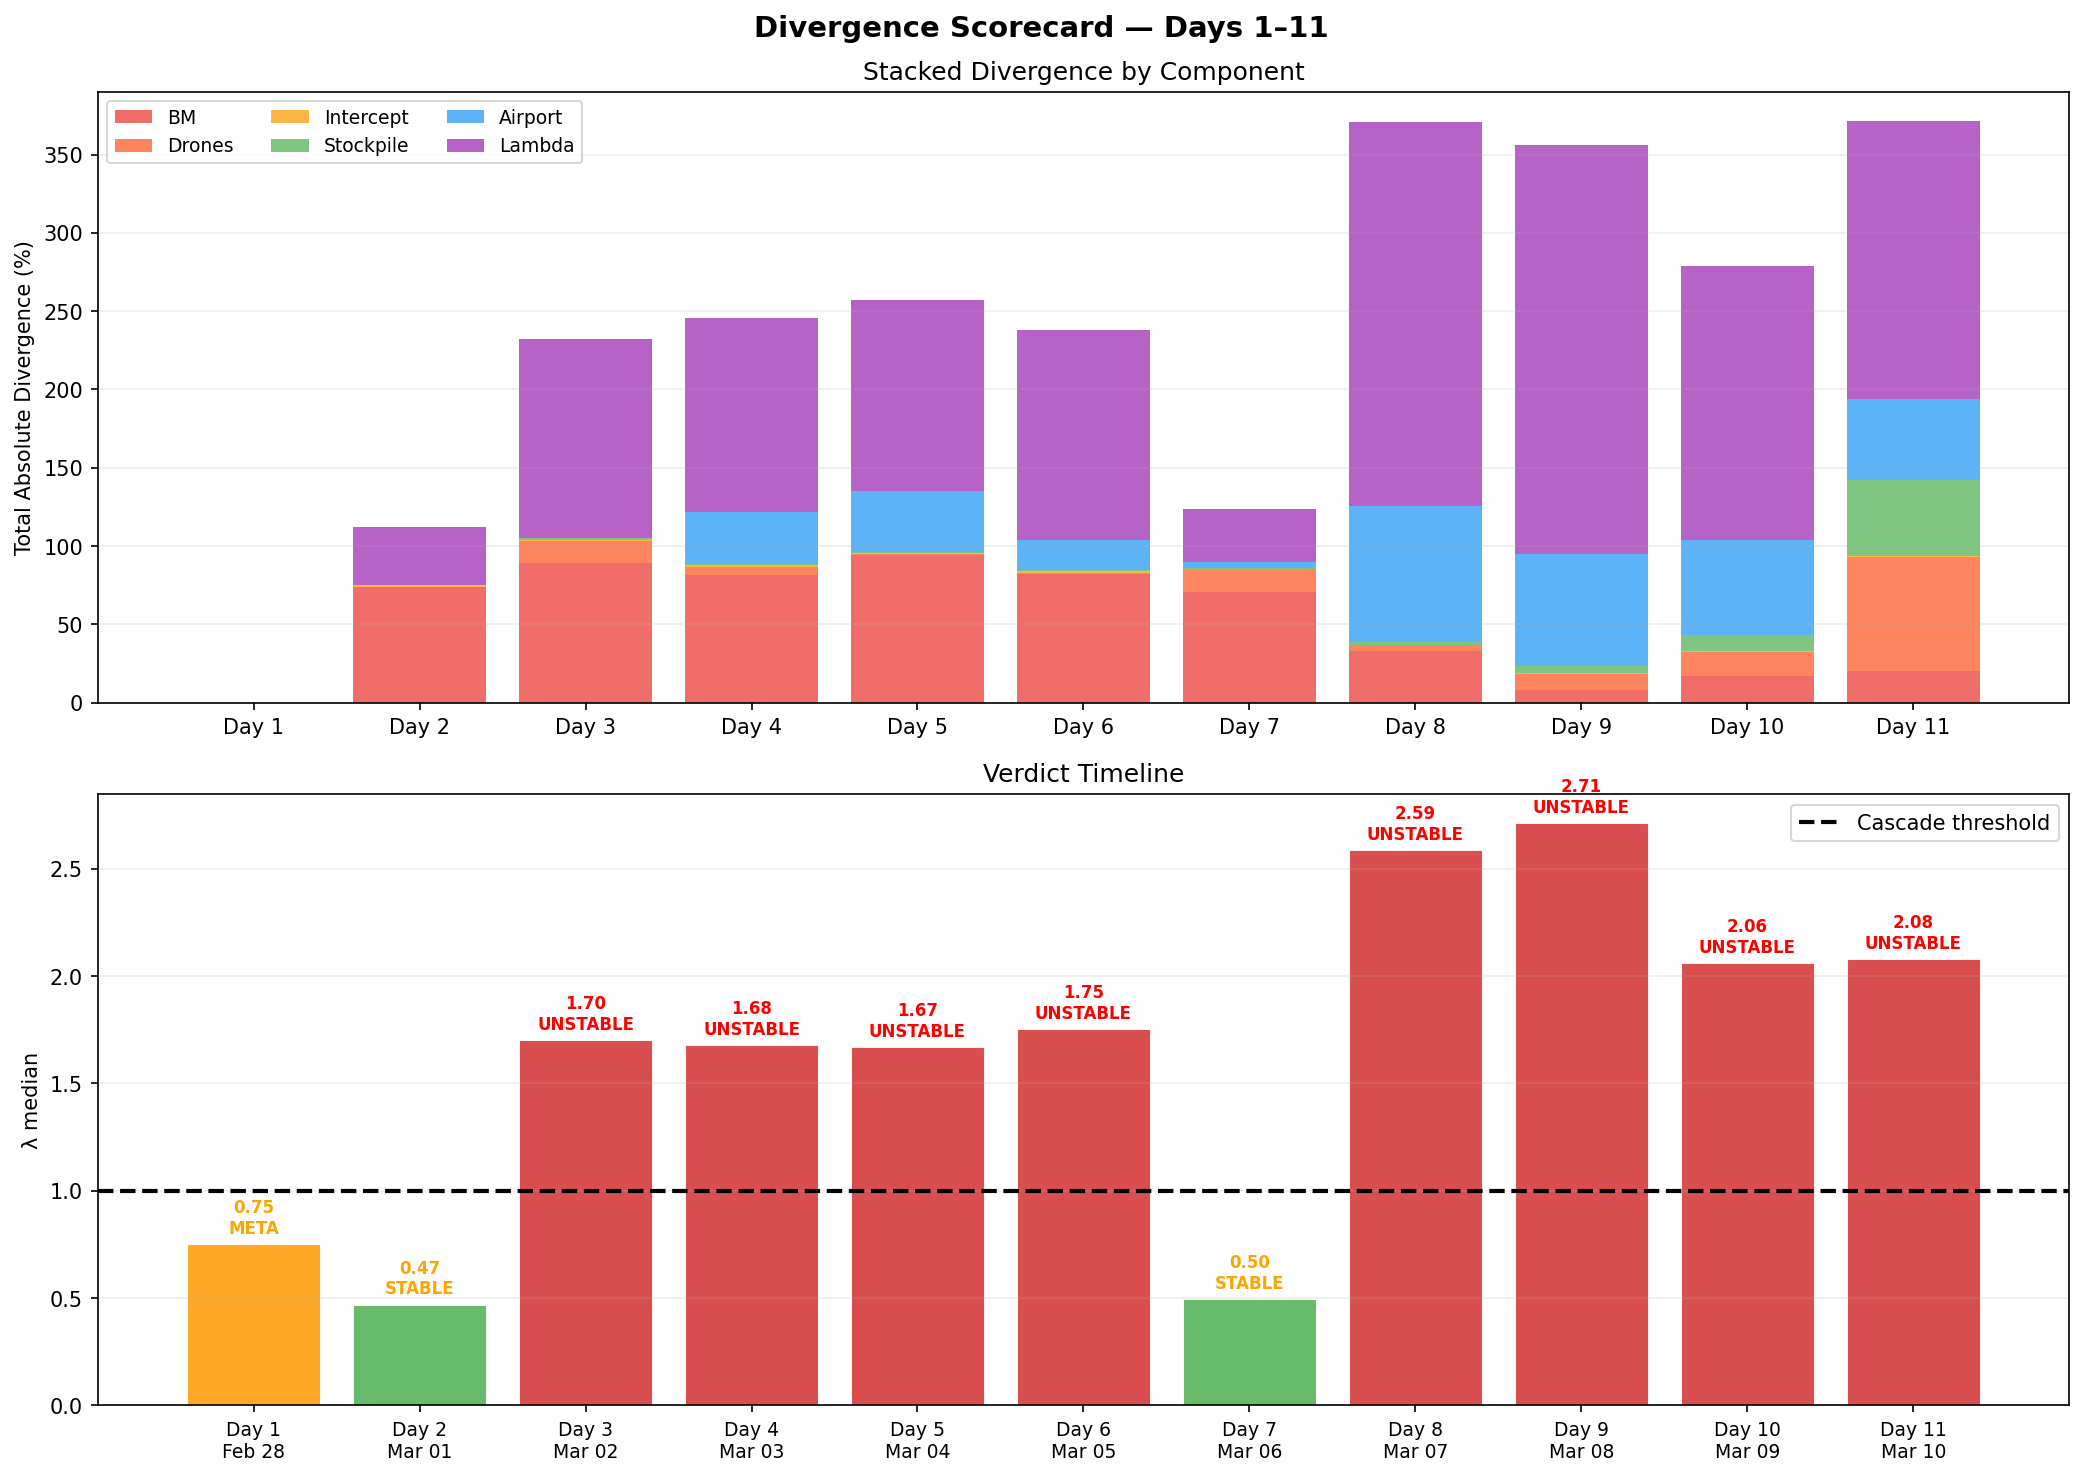
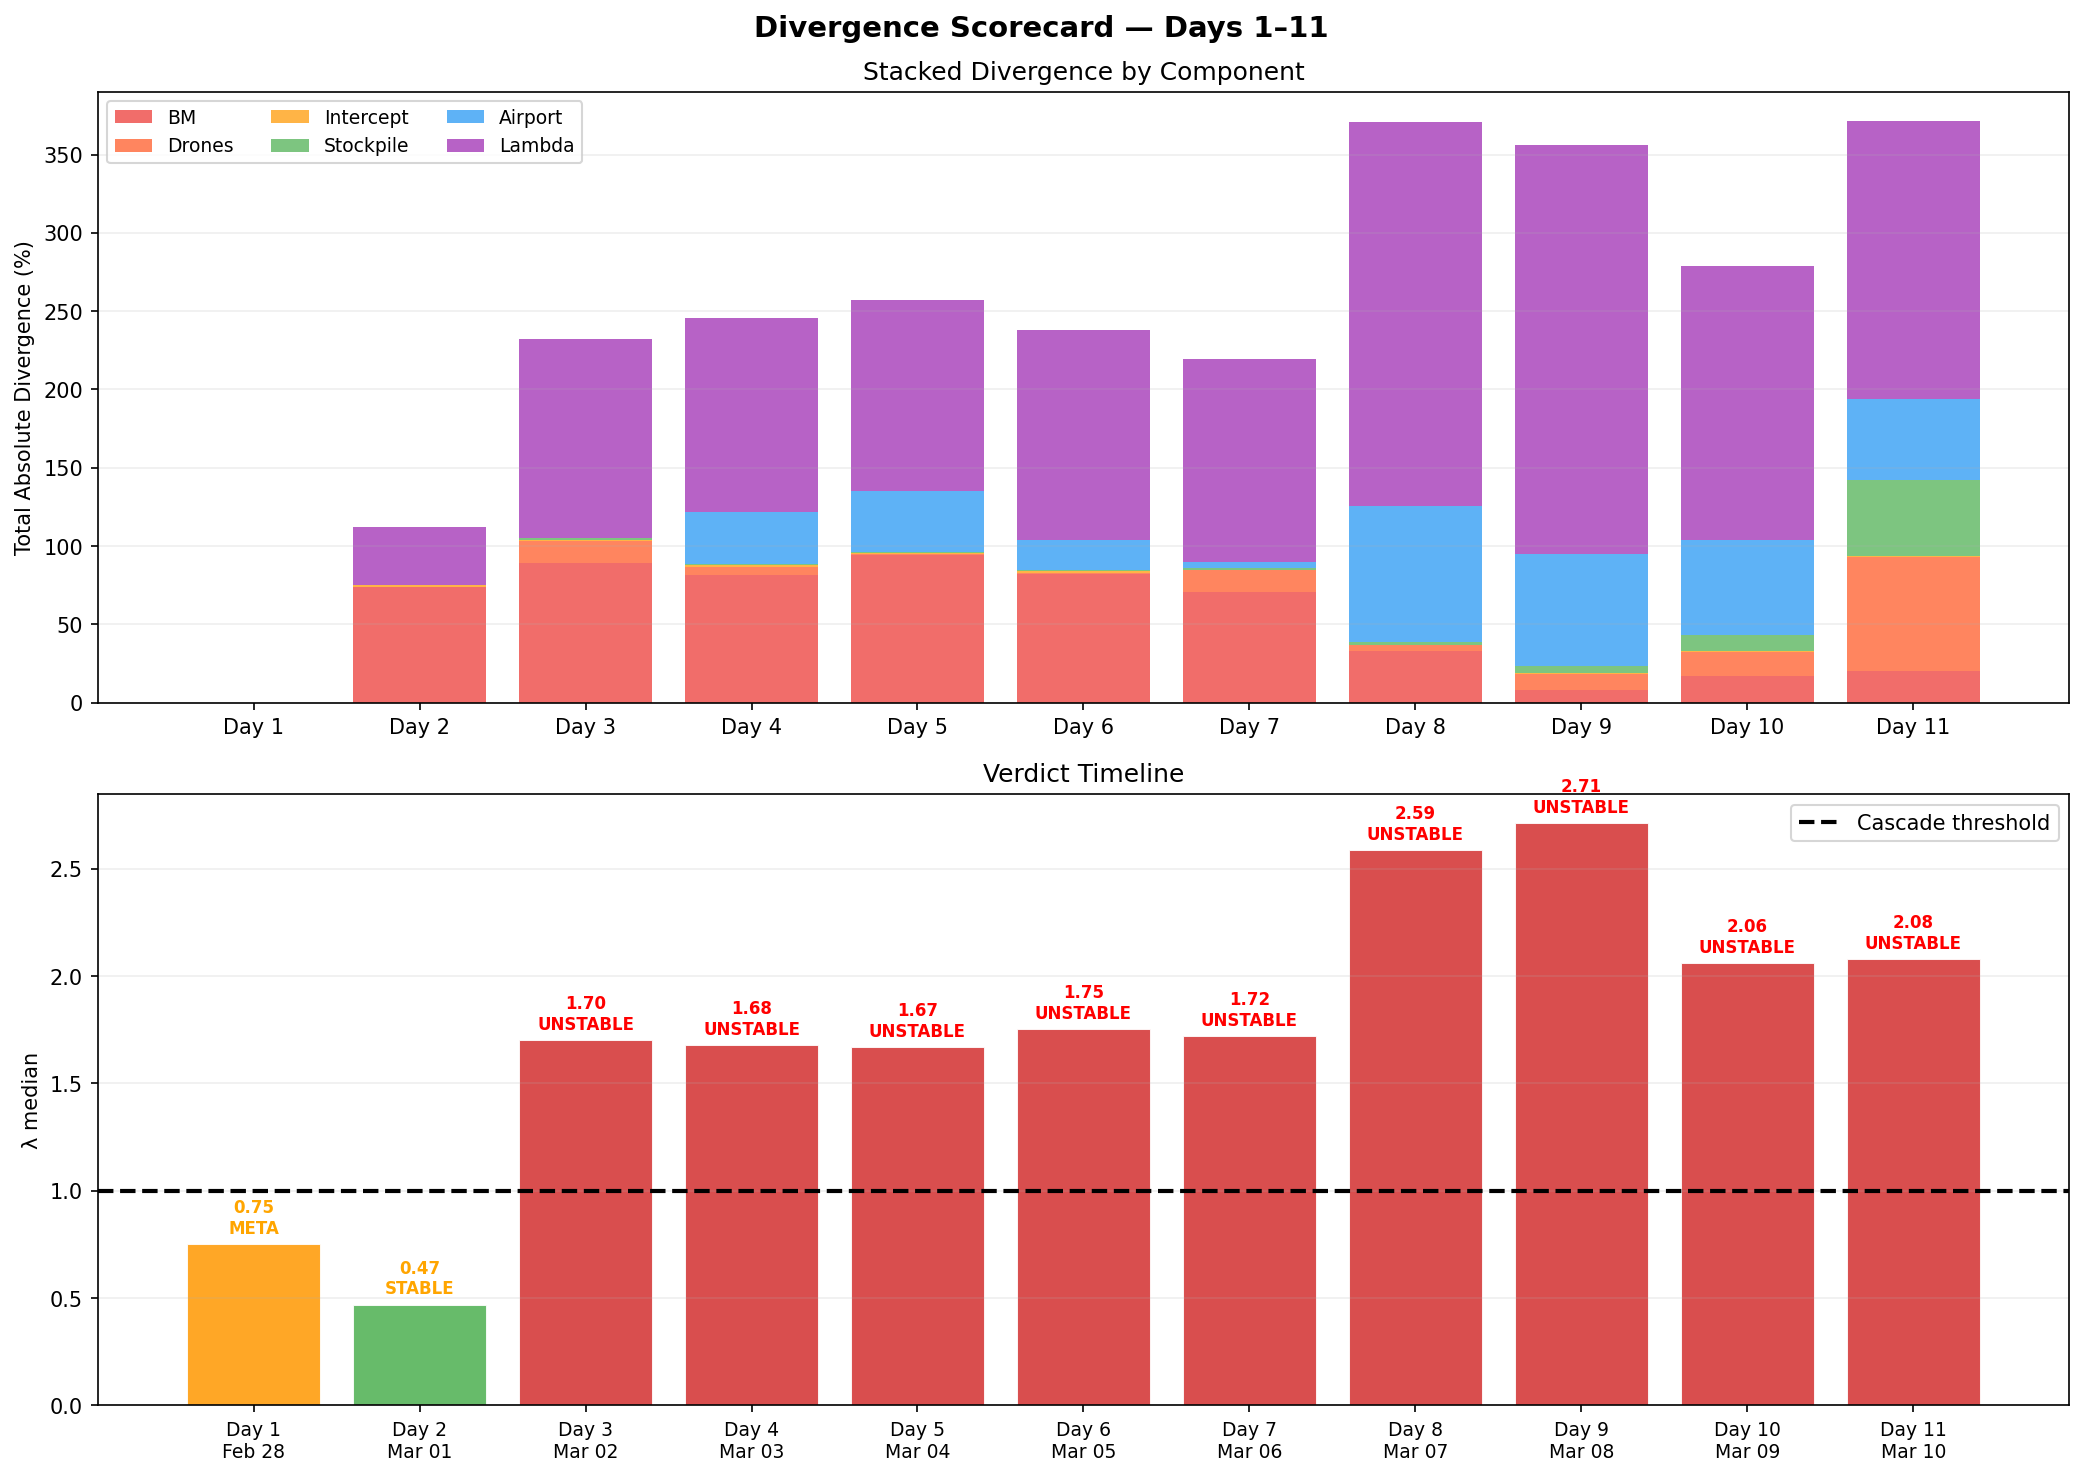
11day update

Changed region(s): [[0.5614, 0.6856, 0.655, 0.9661], [0.5614, 0.2182, 0.655, 0.3428]]

diff --git a/zh/updates/daily-tracker.md b/zh/updates/daily-tracker.md
@@ -156,10 +156,14 @@
 
 | 天 | λ中位数 | P(λ>1) | 95分位 | 判定 | 关键变化 |
 |----|---------|--------|--------|------|---------|
-| 1 | ~0.75 | ~12% | ~1.52 | 亚稳态 | 初始评估 |
-| 7（2艘航母） | 0.739 | 12.2% | 1.523 | 亚稳态 | 基线模型 |
-| 7（3艘航母） | 0.496 | 5.8% | 1.063 | 亚稳态 | CVN-77即将部署 |
-| 8（已实现） | 2.589 | 100% | 3.304 | 不稳定 | 霍尔木兹+代理人+空军基地+弹道反弹 |
+| 1 | 0.750 | 5.5% | ~1.52 | 亚稳态 | 初始评估 |
+| 2 | 0.470 | 5.4% | ~1.10 | 亚稳态 | 开战齐射后 |
+| 3 | 1.703 | 99.9% | 2.40 | 不稳定 | 霍尔木兹关闭→λ跳升 |
+| 4 | 1.677 | 99.7% | 2.38 | 不稳定 | 霍尔木兹确认 |
+| 5 | 1.669 | 99.7% | 2.37 | 不稳定 | 弹道接近零，霍尔木兹持续 |
+| 6 | 1.754 | 100% | 2.45 | 不稳定 | 弹道反弹开始 |
+| 7 | 1.721 | 99.9% | 2.43 | 不稳定 | 霍尔木兹+代理人已实现；弹道打破单调递减 |
+| 8 | 2.589 | 100% | 3.304 | 不稳定 | +空军基地被袭+弹道反弹（16） |
 | 9 | 2.712 | 100% | 3.481 | 不稳定 | 无人机库存突破+弹道持续高位 |
 | 10 | 2.061 | 100% | 2.770 | 不稳定 | 弹道反弹中断（17→12），λ回落但仍在级联区 |
 | **11** | **2.081** | **100%** | **2.790** | **不稳定** | 无人机暴跌（110→35）；新突破（日拦截率）；λ持稳 |
@@ -169,20 +173,18 @@
 ```
 第7天 → 第8天 Lambda分解：
 
-分量               第7天（3航母）    第8天（已实现）    变化
+分量               第7天（已实现）   第8天（已实现）    变化
 ─────────────────────────────────────────────────────────────
-λ_发射装置         -0.471           -0.319           +0.152  （修正：73% vs 85.7%）
-λ_无人机           +0.148           +0.163           +0.015  （库存更低）
+λ_发射装置         -0.471           -0.401           +0.070  （消耗85.7%→~73%）
+λ_无人机           +0.148           +0.164           +0.016  （库存更低）
 λ_拦截             +0.020           +0.020            0.000
-λ_代理人            0.000*          +0.500           +0.500  ⚠ 真主党部分激活
-λ_霍尔木兹          0.000*          +0.630           +0.630  ⚠ 已实现
-λ_武器              0.000*          +0.400           +0.400  ⚠ 空军基地被袭
-λ_弹道反弹          0.000           +0.300           +0.300  ⚠ 新增信号
-λ_海军威慑         -0.240           -0.184           +0.056  （CVN-77尚未到达）
+λ_代理人           +0.500           +0.500            0.000  真主党已激活
+λ_霍尔木兹         +0.630           +0.630            0.000  已关闭
+λ_武器              0.000           +0.400           +0.400  ⚠ 空军基地被袭（新增）
+λ_弹道反弹          0.000           +0.300           +0.300  ⚠ 16枚弹道（加速）
+λ_海军威慑         -0.200           -0.184           +0.016  （CVN-77尚未到达）
 ─────────────────────────────────────────────────────────────
-λ 合计（中位数）    0.496            2.589           +2.093
-
-* 随机尾部风险，期望值约0（P=2-4%）
+λ 合计（中位数）    1.721            2.589           +0.868
 ```
 
 ---
@@ -346,7 +348,7 @@
 | 1 | ~100 | — | — | **立即撤离** |
 | 3 | ~80 | — | 亚稳态 | **撤离——黄金窗口** |
 | 5 | ~65 | — | 亚稳态 | **撤离——窗口关闭中** |
-| 7 | ~55 | 0.496 | 亚稳态 | **撤离——今天离开** |
+| 7 | ~55 | 1.721 | 不稳定 | **撤离——今天离开** |
 | 8 | ~50 | 2.589 | 不稳定 | 立即撤离 |
 | 9 | ~48 | 2.712 | 不稳定 | 立即撤离 |
 | 10 | ~45 | 2.061 | 不稳定 | 立即撤离 |

diff --git a/updates/daily-tracker.md b/updates/daily-tracker.md
@@ -156,10 +156,14 @@ The model's exponential decay assumption (β=0.25/day) broke down from Day 5 onw
 
 | Day | λ Median | P(λ > 1) | 95th Pctl | Verdict | Key Change |
 |-----|----------|----------|-----------|---------|------------|
-| 1 | ~0.75 | ~12% | ~1.52 | METASTABLE | Initial assessment |
-| 7 (2 CSGs) | 0.739 | 12.2% | 1.523 | METASTABLE | Baseline model |
-| 7 (3 CSGs) | 0.496 | 5.8% | 1.063 | METASTABLE | CVN-77 deploying, proxy/Hormuz lowered |
-| 8 (corrected) | 2.589 | 100% | 3.304 | UNSTABLE | Hormuz + proxy + air base + BM rebound |
+| 1 | 0.750 | 5.5% | ~1.52 | METASTABLE | Initial assessment |
+| 2 | 0.470 | 5.4% | ~1.10 | METASTABLE | Post-opening salvo |
+| 3 | 1.703 | 99.9% | 2.40 | UNSTABLE | Hormuz closes → λ jumps |
+| 4 | 1.677 | 99.7% | 2.38 | UNSTABLE | Hormuz confirmed |
+| 5 | 1.669 | 99.7% | 2.37 | UNSTABLE | BM near-zero, Hormuz persists |
+| 6 | 1.754 | 100% | 2.45 | UNSTABLE | BM rebound begins |
+| 7 | 1.721 | 99.9% | 2.43 | UNSTABLE | Hormuz + proxy realized; BM breaks monotonic decay |
+| 8 | 2.589 | 100% | 3.304 | UNSTABLE | + air base strike + BM rebound (16) |
 | 9 | 2.712 | 100% | 3.481 | UNSTABLE | Drone stockpile breach + BM sustained |
 | 10 | 2.061 | 100% | 2.770 | UNSTABLE | BM rebound breaks (17→12), λ eases but still CASCADE |
 | **11** | **2.081** | **100%** | **2.790** | **UNSTABLE** | Drone collapse (110→35); new breach (interception_day); λ holds steady |
@@ -169,20 +173,18 @@ The model's exponential decay assumption (β=0.25/day) broke down from Day 5 onw
 ```
 Day 7 → Day 8 Lambda Decomposition:
 
-Component          Day 7 (3 CSG)    Day 8 (corrected)   Change
+Component          Day 7 (realized)  Day 8 (realized)    Change
 ─────────────────────────────────────────────────────────────────
 λ_launcher         -0.471           -0.401              +0.070  (depletion 85.7%→~73%)
 λ_drone            +0.148           +0.164              +0.016  (stockpile lower)
 λ_intercept        +0.020           +0.020               0.000
-λ_proxy             0.000*          +0.500              +0.500  ⚠ Hezbollah partial
-λ_hormuz            0.000*          +0.630              +0.630  ⚠ REALIZED
-λ_weapon            0.000*          +0.400              +0.400  ⚠ Air base strike
+λ_proxy            +0.500           +0.500               0.000  Hezbollah already active
+λ_hormuz           +0.630           +0.630               0.000  Already closed
+λ_weapon            0.000           +0.400              +0.400  ⚠ Air base strike (NEW)
 λ_bm_rebound        0.000           +0.300              +0.300  ⚠ 16 BM (accelerating)
-λ_naval            -0.240           -0.184              +0.056  (CVN-77 not yet arrived)
+λ_naval            -0.200           -0.184              +0.016  (CVN-77 not yet arrived)
 ─────────────────────────────────────────────────────────────────
-λ total (median)    0.496            2.589              +2.093
-
-* Stochastic tail risks, expected value ~0 at P=2-4%
+λ total (median)    1.721            2.589              +0.868
 ```
 
 ---
@@ -346,7 +348,7 @@ Dramatic shift: drone launch rate collapsed 68% (110→35) — largest single-da
 | 1 | ~100 | — | — | **LEAVE IMMEDIATELY** |
 | 3 | ~80 | — | METASTABLE | **LEAVE — good window** |
 | 5 | ~65 | — | METASTABLE | **LEAVE — window closing** |
-| 7 | ~55 | 0.496 | METASTABLE | **LEAVE — depart today** |
+| 7 | ~55 | 1.721 | UNSTABLE | **LEAVE — depart today** |
 | 8 | ~50 | 2.589 | UNSTABLE | EVACUATE IMMEDIATELY |
 | 9 | ~48 | 2.712 | UNSTABLE | EVACUATE IMMEDIATELY |
 | 10 | ~45 | 2.061 | UNSTABLE | EVACUATE IMMEDIATELY |

diff --git a/pipeline/DAILY_UPDATE_PROCESS.md b/pipeline/DAILY_UPDATE_PROCESS.md
@@ -186,7 +186,7 @@ LAMBDA_OFFICIAL = {
     4:  1.677,
     5:  1.669,
     6:  1.754,
-    7:  0.496,
+    7:  1.721,   # realized events (Hormuz + proxy); was 0.496 under old 3-CSG scenario
     8:  2.589,
     9:  2.712,
     10: 2.061,
@@ -201,7 +201,7 @@ P_LAMBDA_GT1 = {
     4:  99.7,
     5:  99.7,
     6:  100.0,
-    7:  5.8,
+    7:  99.9,   # realized events; was 5.8 under old 3-CSG scenario
     8:  100.0,
     9:  100.0,
     10: 100.0,
